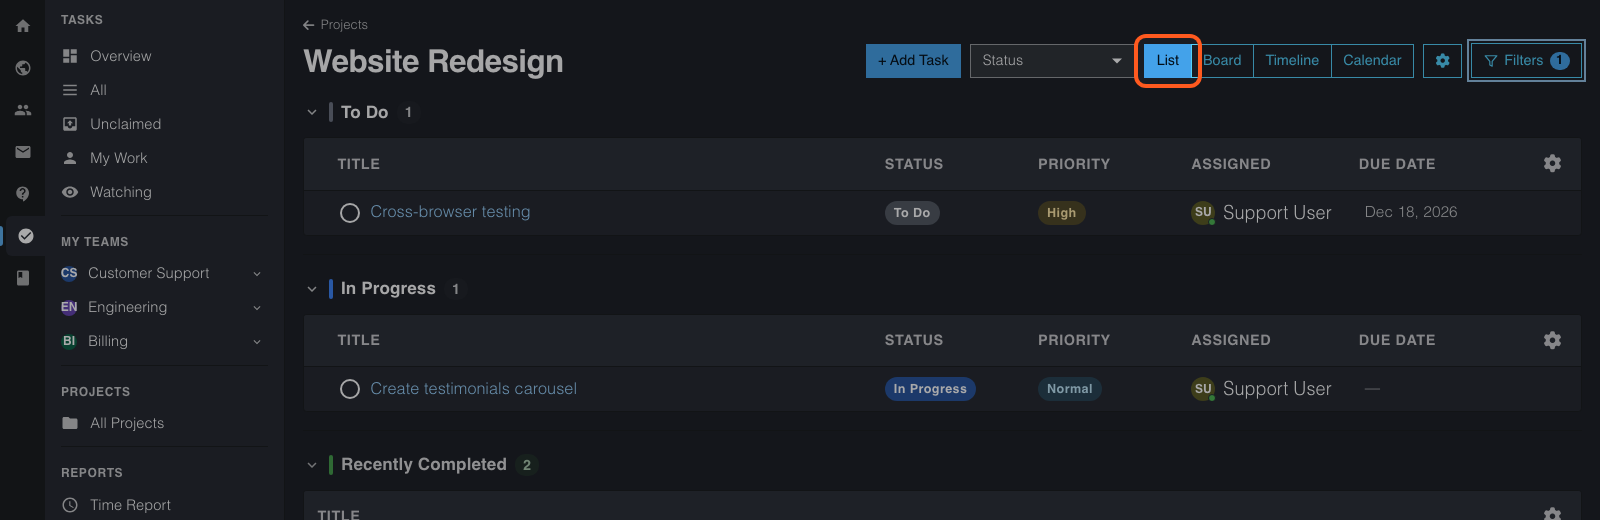
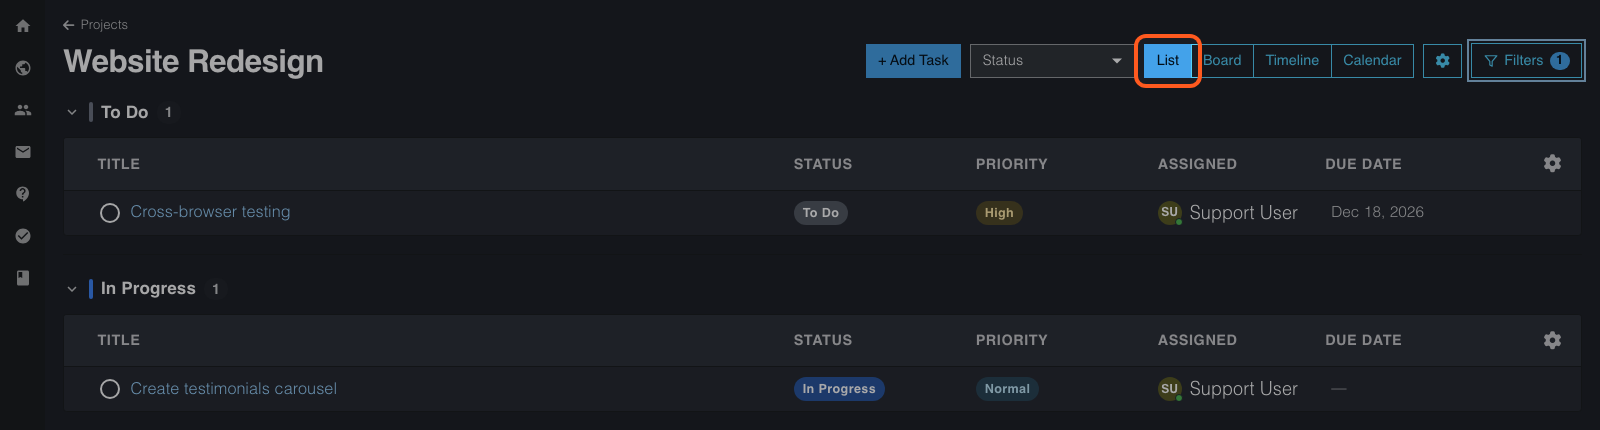
docs(dashboard): crop tasks pictures to whole rows
The My Work and List view pictures now end on a whole row instead of cutting through one.

diff --git a/dashboard/tasks-and-projects.md b/dashboard/tasks-and-projects.md
@@ -1,6 +1,6 @@
 # Tasks and Projects
 
-**Last verified:** 2026-11-07 10:01am
+**Last verified:** 2026-11-07 10:27am
 
 WebNesting Tasks helps you and your team organize work, track progress, and stay on top of deadlines -- all from within your workspace. Create projects, break work into tasks, assign team members, and see everything come together across multiple views.
 
